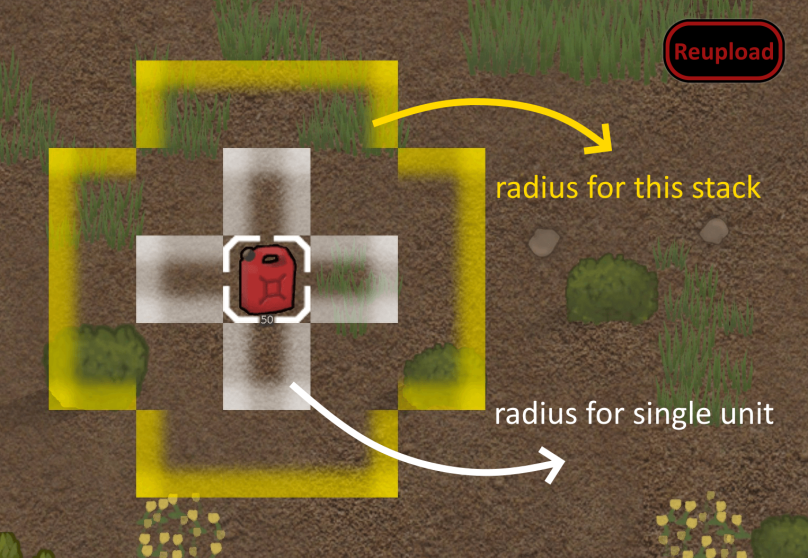
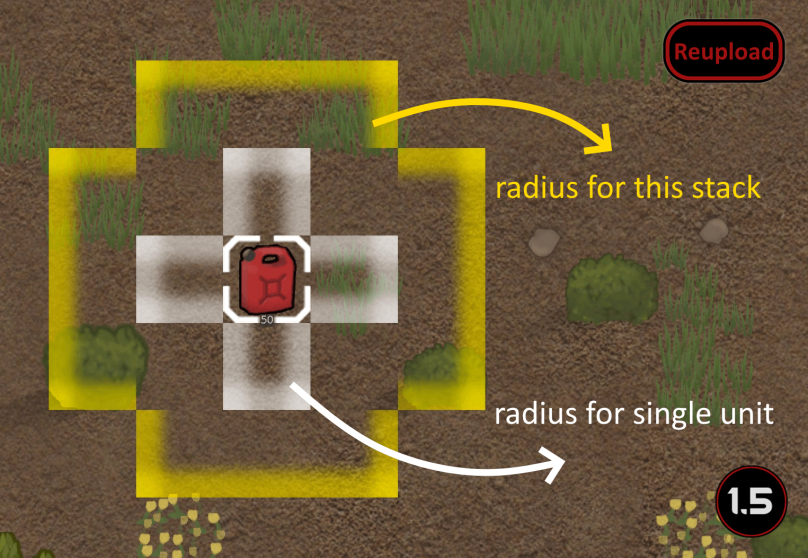
Mod updated for 1.5 and passed autotests

Changed region(s): [[0.8663, 0.8226, 0.9901, 0.9749]]

diff --git a/Source/ExplosiveRadius/InitUtility.cs b/Source/ExplosiveRadius/InitUtility.cs
@@ -1,5 +1,6 @@
 using System.Collections.Generic;
 using HarmonyLib;
+using LudeonTK;
 using RimWorld;
 using Verse;
 
@@ -13,7 +14,7 @@ public static class InitUtility
     static InitUtility()
     {
         new Harmony("com.colinfang.ExplosiveRadius").PatchAll();
-        PatchedExplosives = new HashSet<ThingDef>();
+        PatchedExplosives = [];
         foreach (var allDef in DefDatabase<ThingDef>.AllDefs)
         {
             if (allDef.specialDisplayRadius != 0f)

diff --git a/README.md b/README.md
@@ -15,18 +15,19 @@ I would expect it to be compatible with most mods. However it doesn't quite work
 
 Feedback is welcome. Please leave a comment if you spot any issues or have any suggestions! Hope you like it.
 
-https://github.com/colinfang/ExplosiveRadius]![Image](https://i.imgur.com/kTkpTOE.png)
-
-
 ![Image](https://i.imgur.com/PwoNOj4.png)
 
 
 
 -  See if the the error persists if you just have this mod and its requirements active.
 -  If not, try adding your other mods until it happens again.
--  Post your error-log using https://steamcommunity.com/workshop/filedetails/?id=818773962]HugsLib and command Ctrl+F12
+-  Post your error-log using https://steamcommunity.com/workshop/filedetails/?id=818773962]HugsLib or the standalone https://steamcommunity.com/sharedfiles/filedetails/?id=2873415404]Uploader and command Ctrl+F12
 -  For best support, please use the Discord-channel for error-reporting.
 -  Do not report errors by making a discussion-thread, I get no notification of that.
 -  If you have the solution for a problem, please post it to the GitHub repository.
+-  Use https://github.com/RimSort/RimSort/releases/latest]RimSort to sort your mods
 
+
+
+https://steamcommunity.com/sharedfiles/filedetails/changelog/2986987463]![Image](https://img.shields.io/github/v/release/emipa606/ExplosiveRadius?label=latest%20version&style=plastic&color=9f1111&labelColor=black)
 
